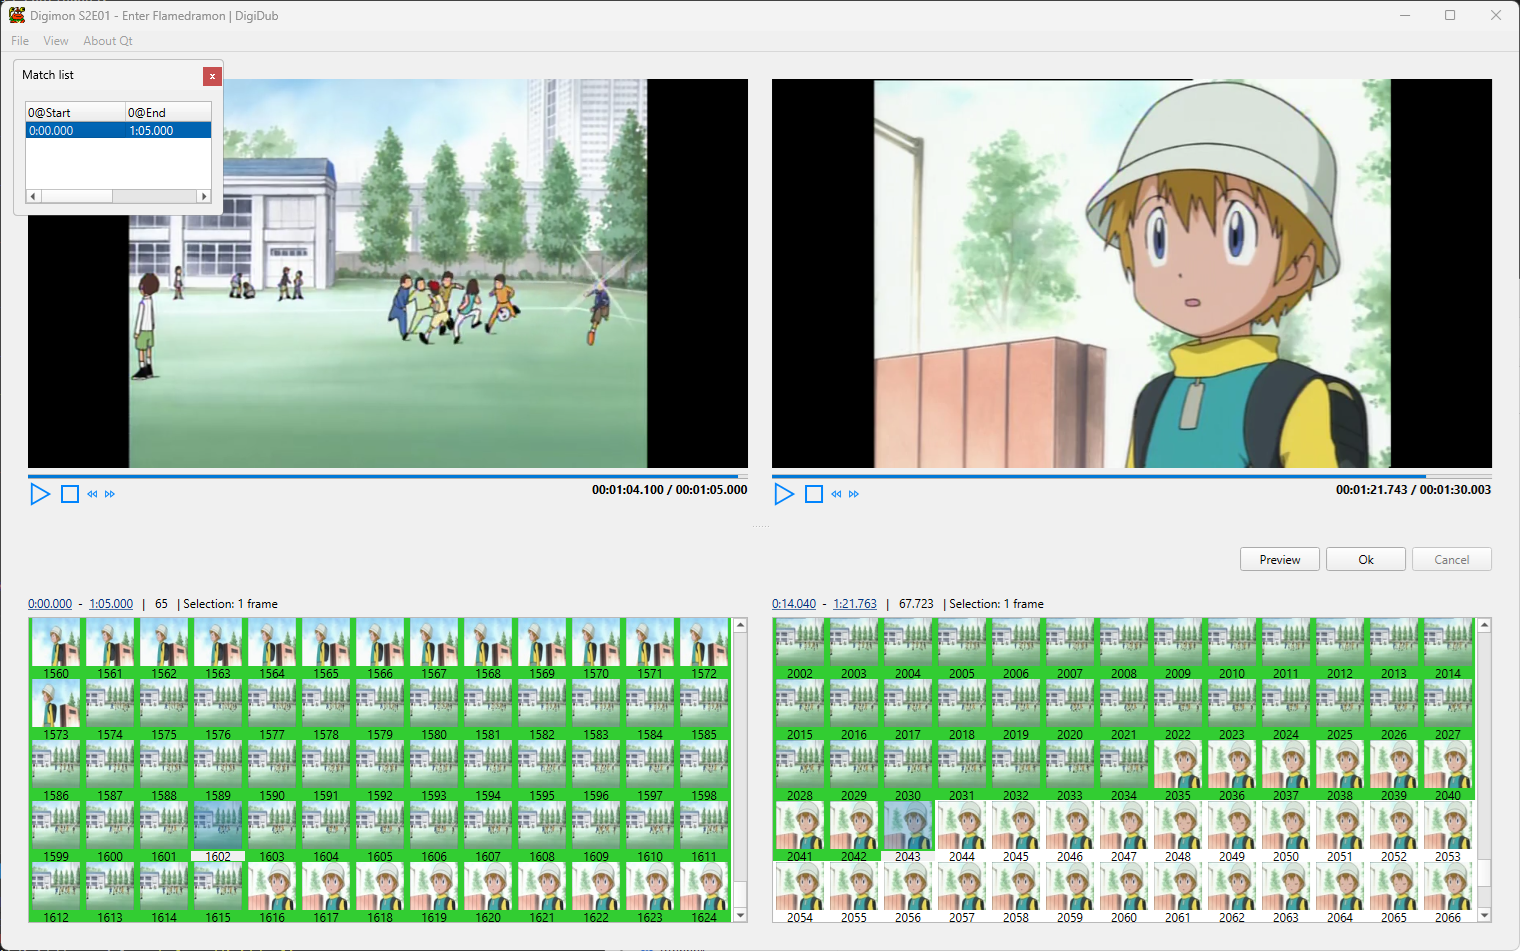
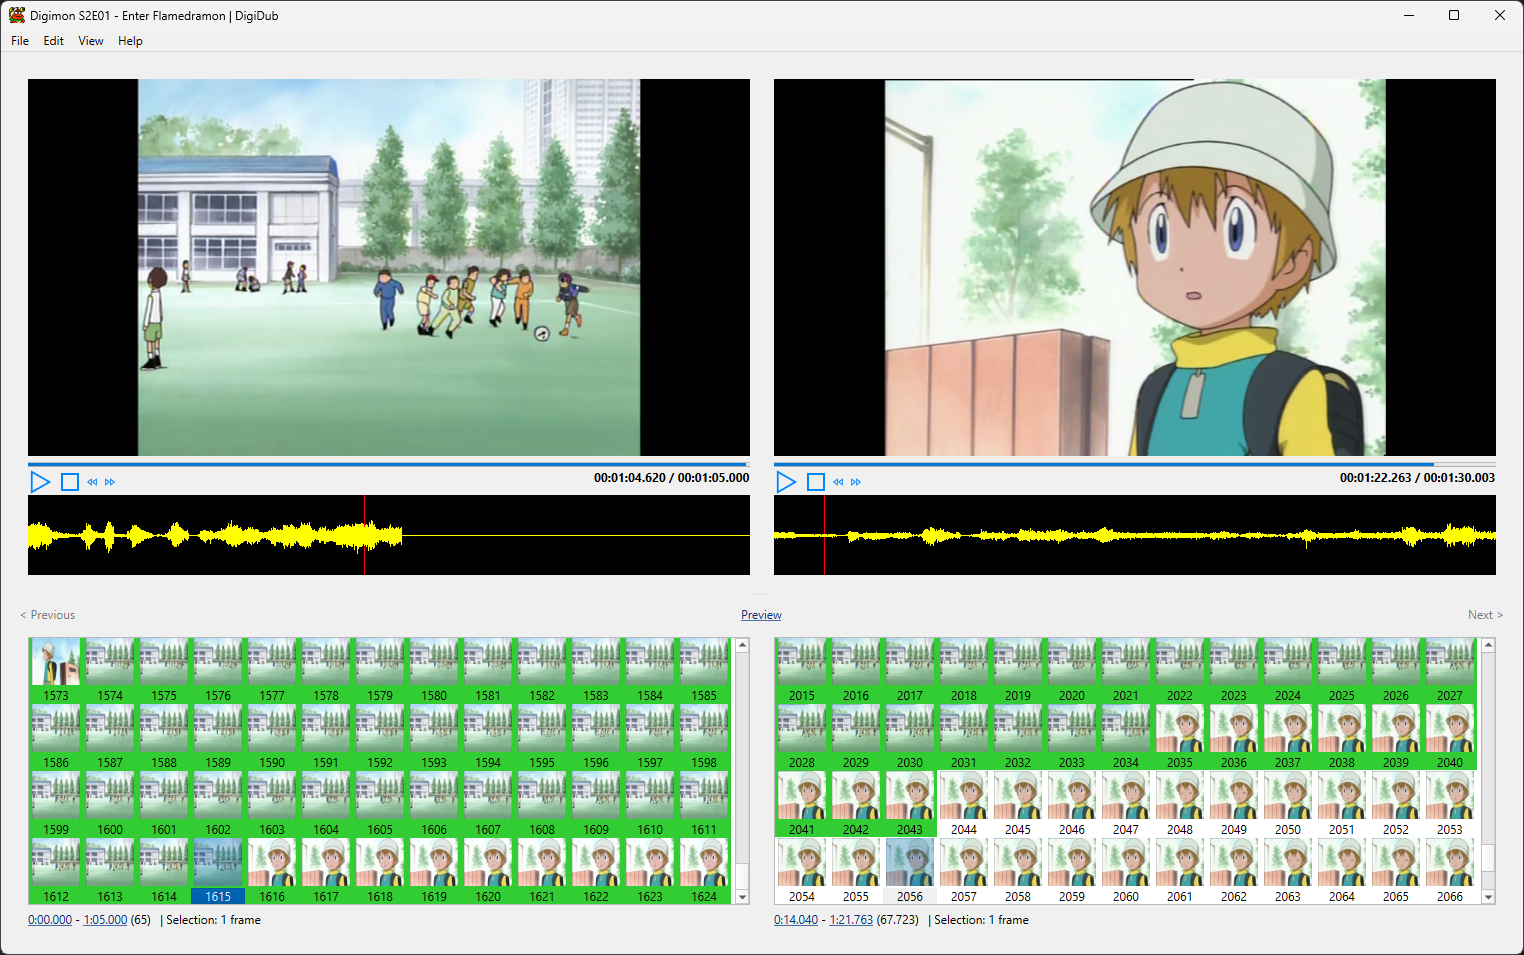
version 2.1

diff --git a/tutoriel/README.md b/tutoriel/README.md
@@ -187,26 +187,29 @@ De manière générale, le logiciel fait globalement un travail convenable ; mai
 fréquent de devoir faire quelques retouches à la main.
 
 C'est là qu'intervient `matcheditor`.
-Ce dernier permet de visualiser les correspondances trouvées par `digidub-cli`, de les modifier
+Cet outil permet de visualiser les correspondances trouvées par `digidub-cli`, de les modifier
 et d'en chercher des supplémentaires.
 
 `matcheditor` permet d'ouvrir un fichier de projet et affiche alors côte-à-côte les deux vidéos.
 
 ![Screenshot of matcheditor](screenshots/matcheditor-1.png)
 
-Après l'ouverture du projet, une petite fenêtre flottante s'affiche et liste les correspondances.
+Après l'ouverture du projet, il est possible de parcourir les correspondances en cliquant sur les 
+liens "< Prev" et "Next >" respectivement au milieu à gauche et au milieu à droite de la fenêtre.
+Alternativement, le menu "View > Match list" permet d'afficher une petite fenêtre flottante listant
+l'ensemble des correspondances.
 
-Cette fenêtre permet de supprimer la correspondance sélectionnée avec la touche Suppr.
-
-En double-cliquant sur une correspondance, on passe en mode édition.
-
-Les frames appartenant à la correspondance sont alors affichées avec un fond vert.
+Les frames appartenant à la correspondance courante sont affichées avec un fond vert dans la liste 
+des frames.
 Il est possible de d'éditer le début et la fin du match en faisant un clic droit sur une frame, 
 puis en sélectionnant "Set as match begin" ou "Set as match end" dans le menu contextuel.
 
-Les boutons sur la droite permettent de générer une preview de la correspondance et de valider
-ou annuler les modifications.
-Si des modifications sont effetuées, il faut bien penser à les sauvegarder via l'action "Save"
-du menu "File".
+Le lien "Preview", au centre de la fenêtre, permet de prévisualiser la correspondance actuellement
+sélectionnée.
+
+Le menu "Edit > Delete current match" permet de supprimer le match courant.
+Alternativement, on peut supprimer un match depuis la fenêtre des matchs avec la touche Suppr.
+
+Une fois les modifications effectuées, il faut penser à les sauvegarder via le menu "File > Save".
 
 Enfin, la vidéo peut être exportée directement depuis `matcheditor` via "File > Export". 

diff --git a/README.md b/README.md
@@ -51,3 +51,10 @@ For compiling:
 For running the program:
 - `ffmpeg` and `mkvmerge` must be installed on your system and added to 
   your `PATH`
+
+## Changelog
+
+**v2.1:** display audio waveform + various user experience improvements (e.g., undo/redo).
+
+**v2.0:** added a graphical user interface (GUI).
+
